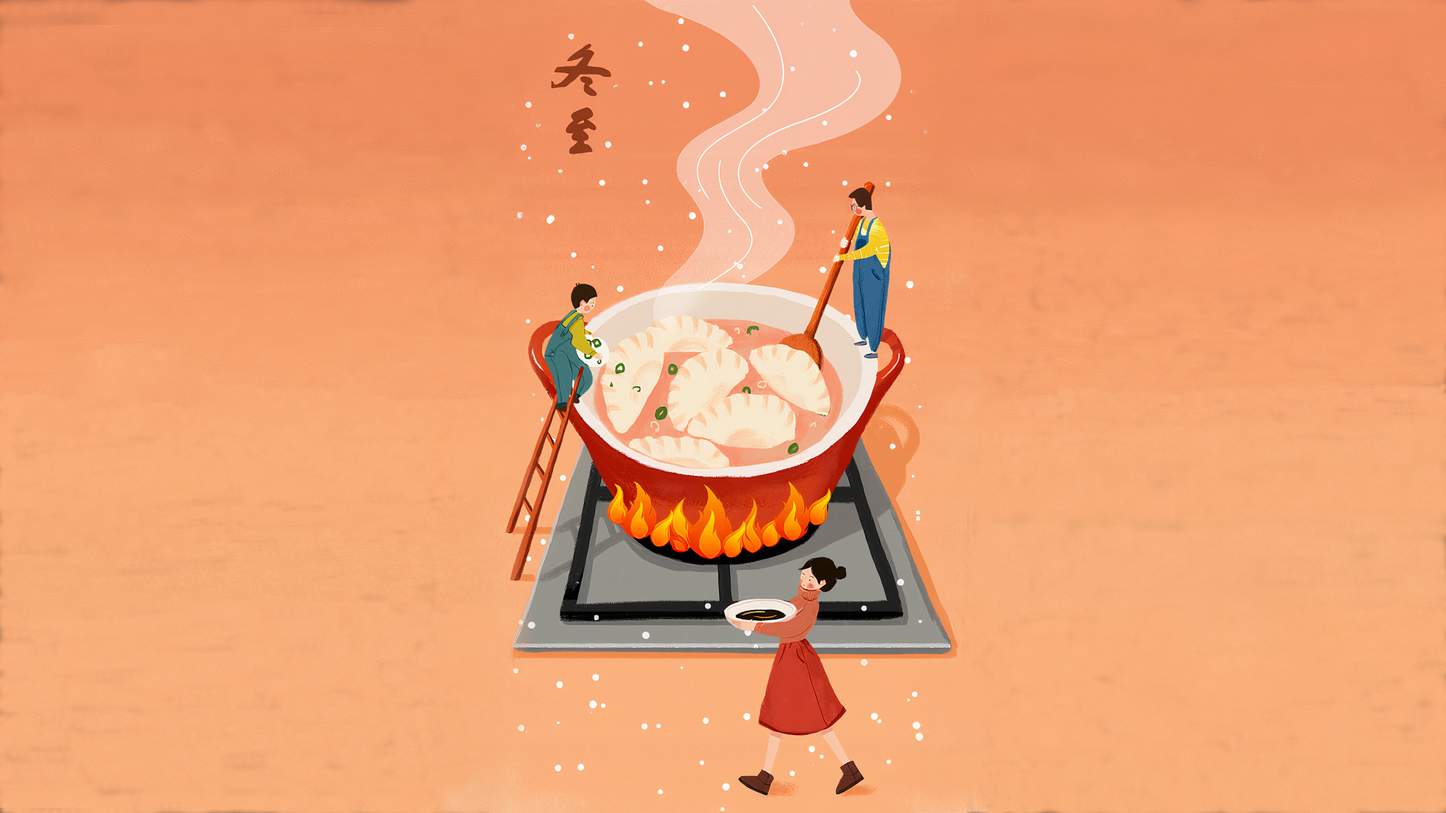
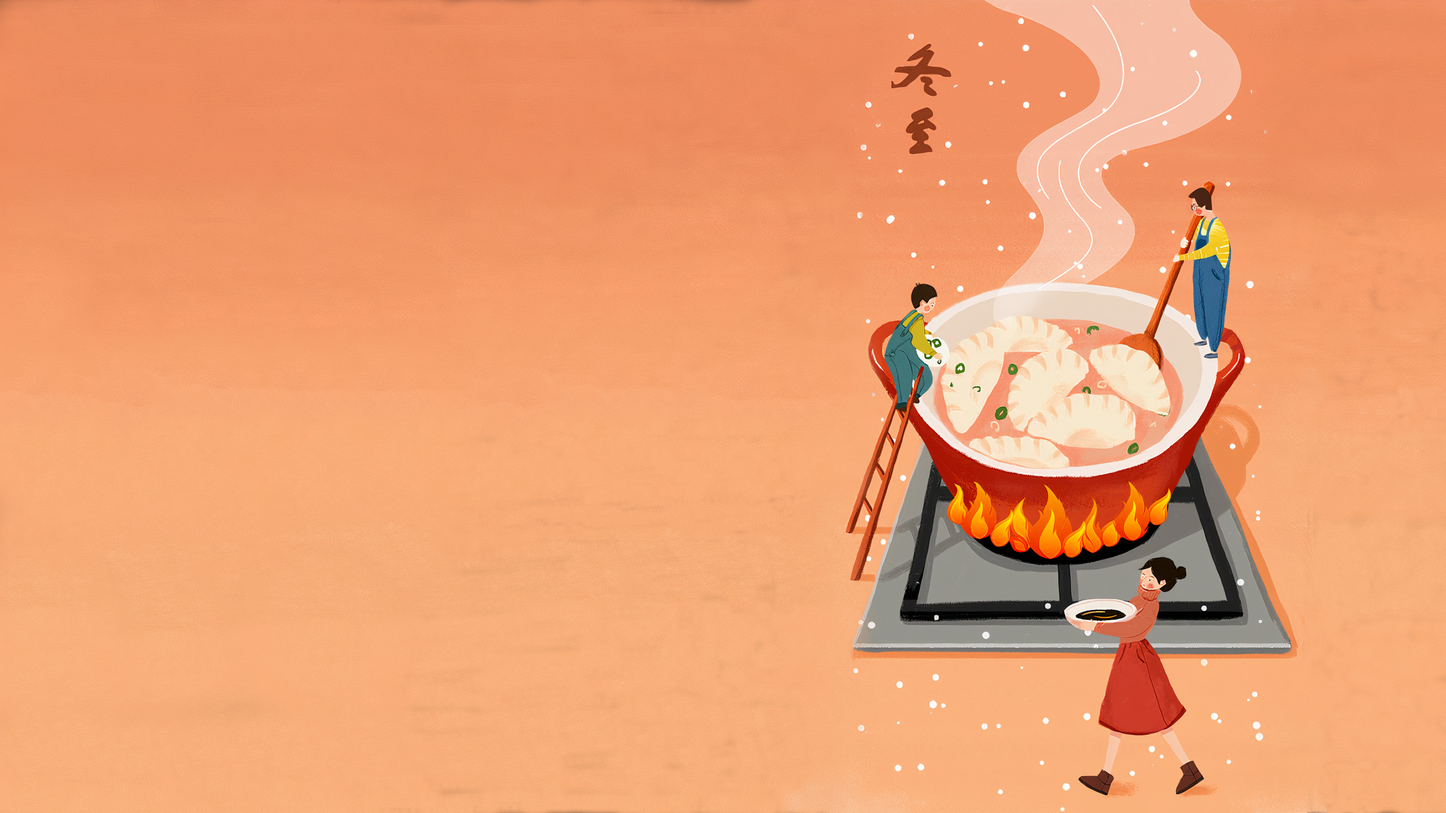
Changed bg position; Added navigation bar

diff --git a/src/assets/css/main.css b/src/assets/css/main.css
@@ -5,7 +5,24 @@ html, body {
 }
 
 #navbar {
-    
+    position: absolute;
+    background: #f1ba8a;
+    opacity: 0.5;
+    top: 0;
+    width: 100%;
+    height: 2.5rem;
+    display: flex;
+    align-items: center;
+}
+
+#navbar a {
+    text-decoration: none;
+    color: black;
+    margin: 0 2.5rem;
+}
+
+#navbar a:hover {
+    color: rgb(196, 46, 46);
 }
 
 #homepage {

diff --git a/src/viewer.html b/src/viewer.html
@@ -7,10 +7,13 @@
 </head>
 <body>
     <div id="content">
-        <div id="navbar">
-        </div>
         <div id="homepage">
         </div>
+        <nav id="navbar">
+            <a href="#">Home</a>
+            <a href="#">Menu</a>
+            <a href="#">Contact Us</a>
+        </nav>
     </div>
 </body>
 </html>
